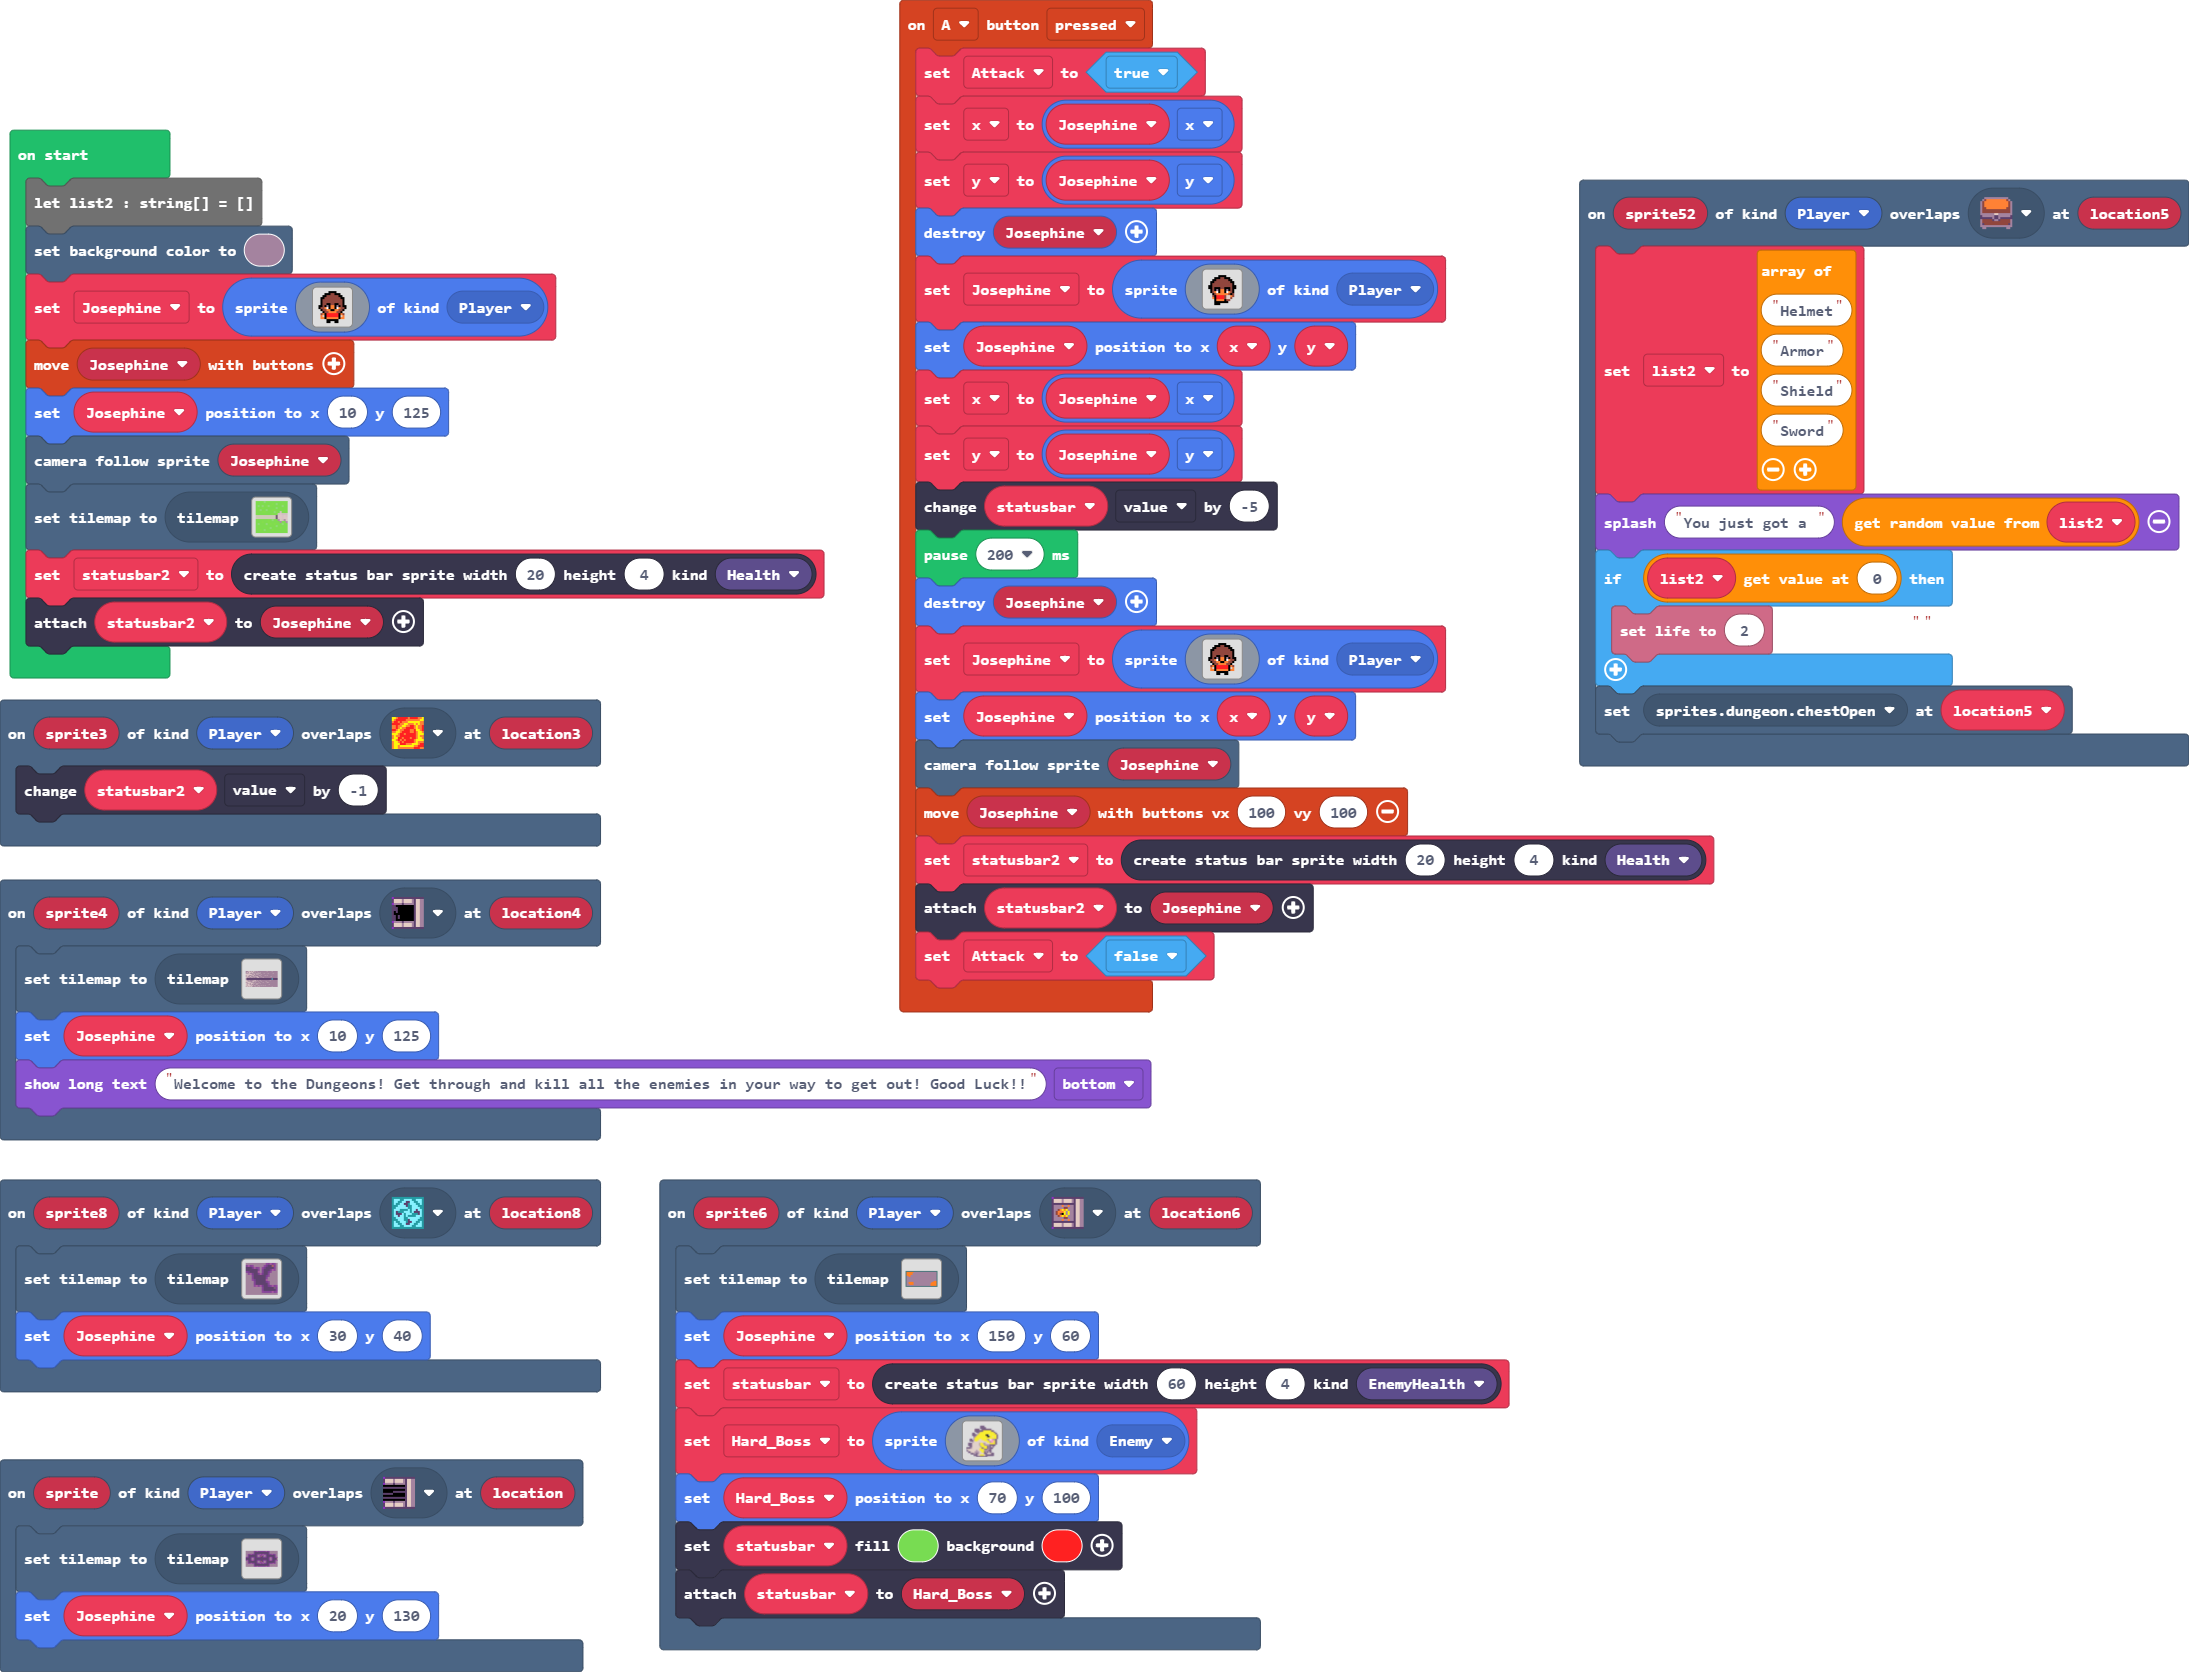
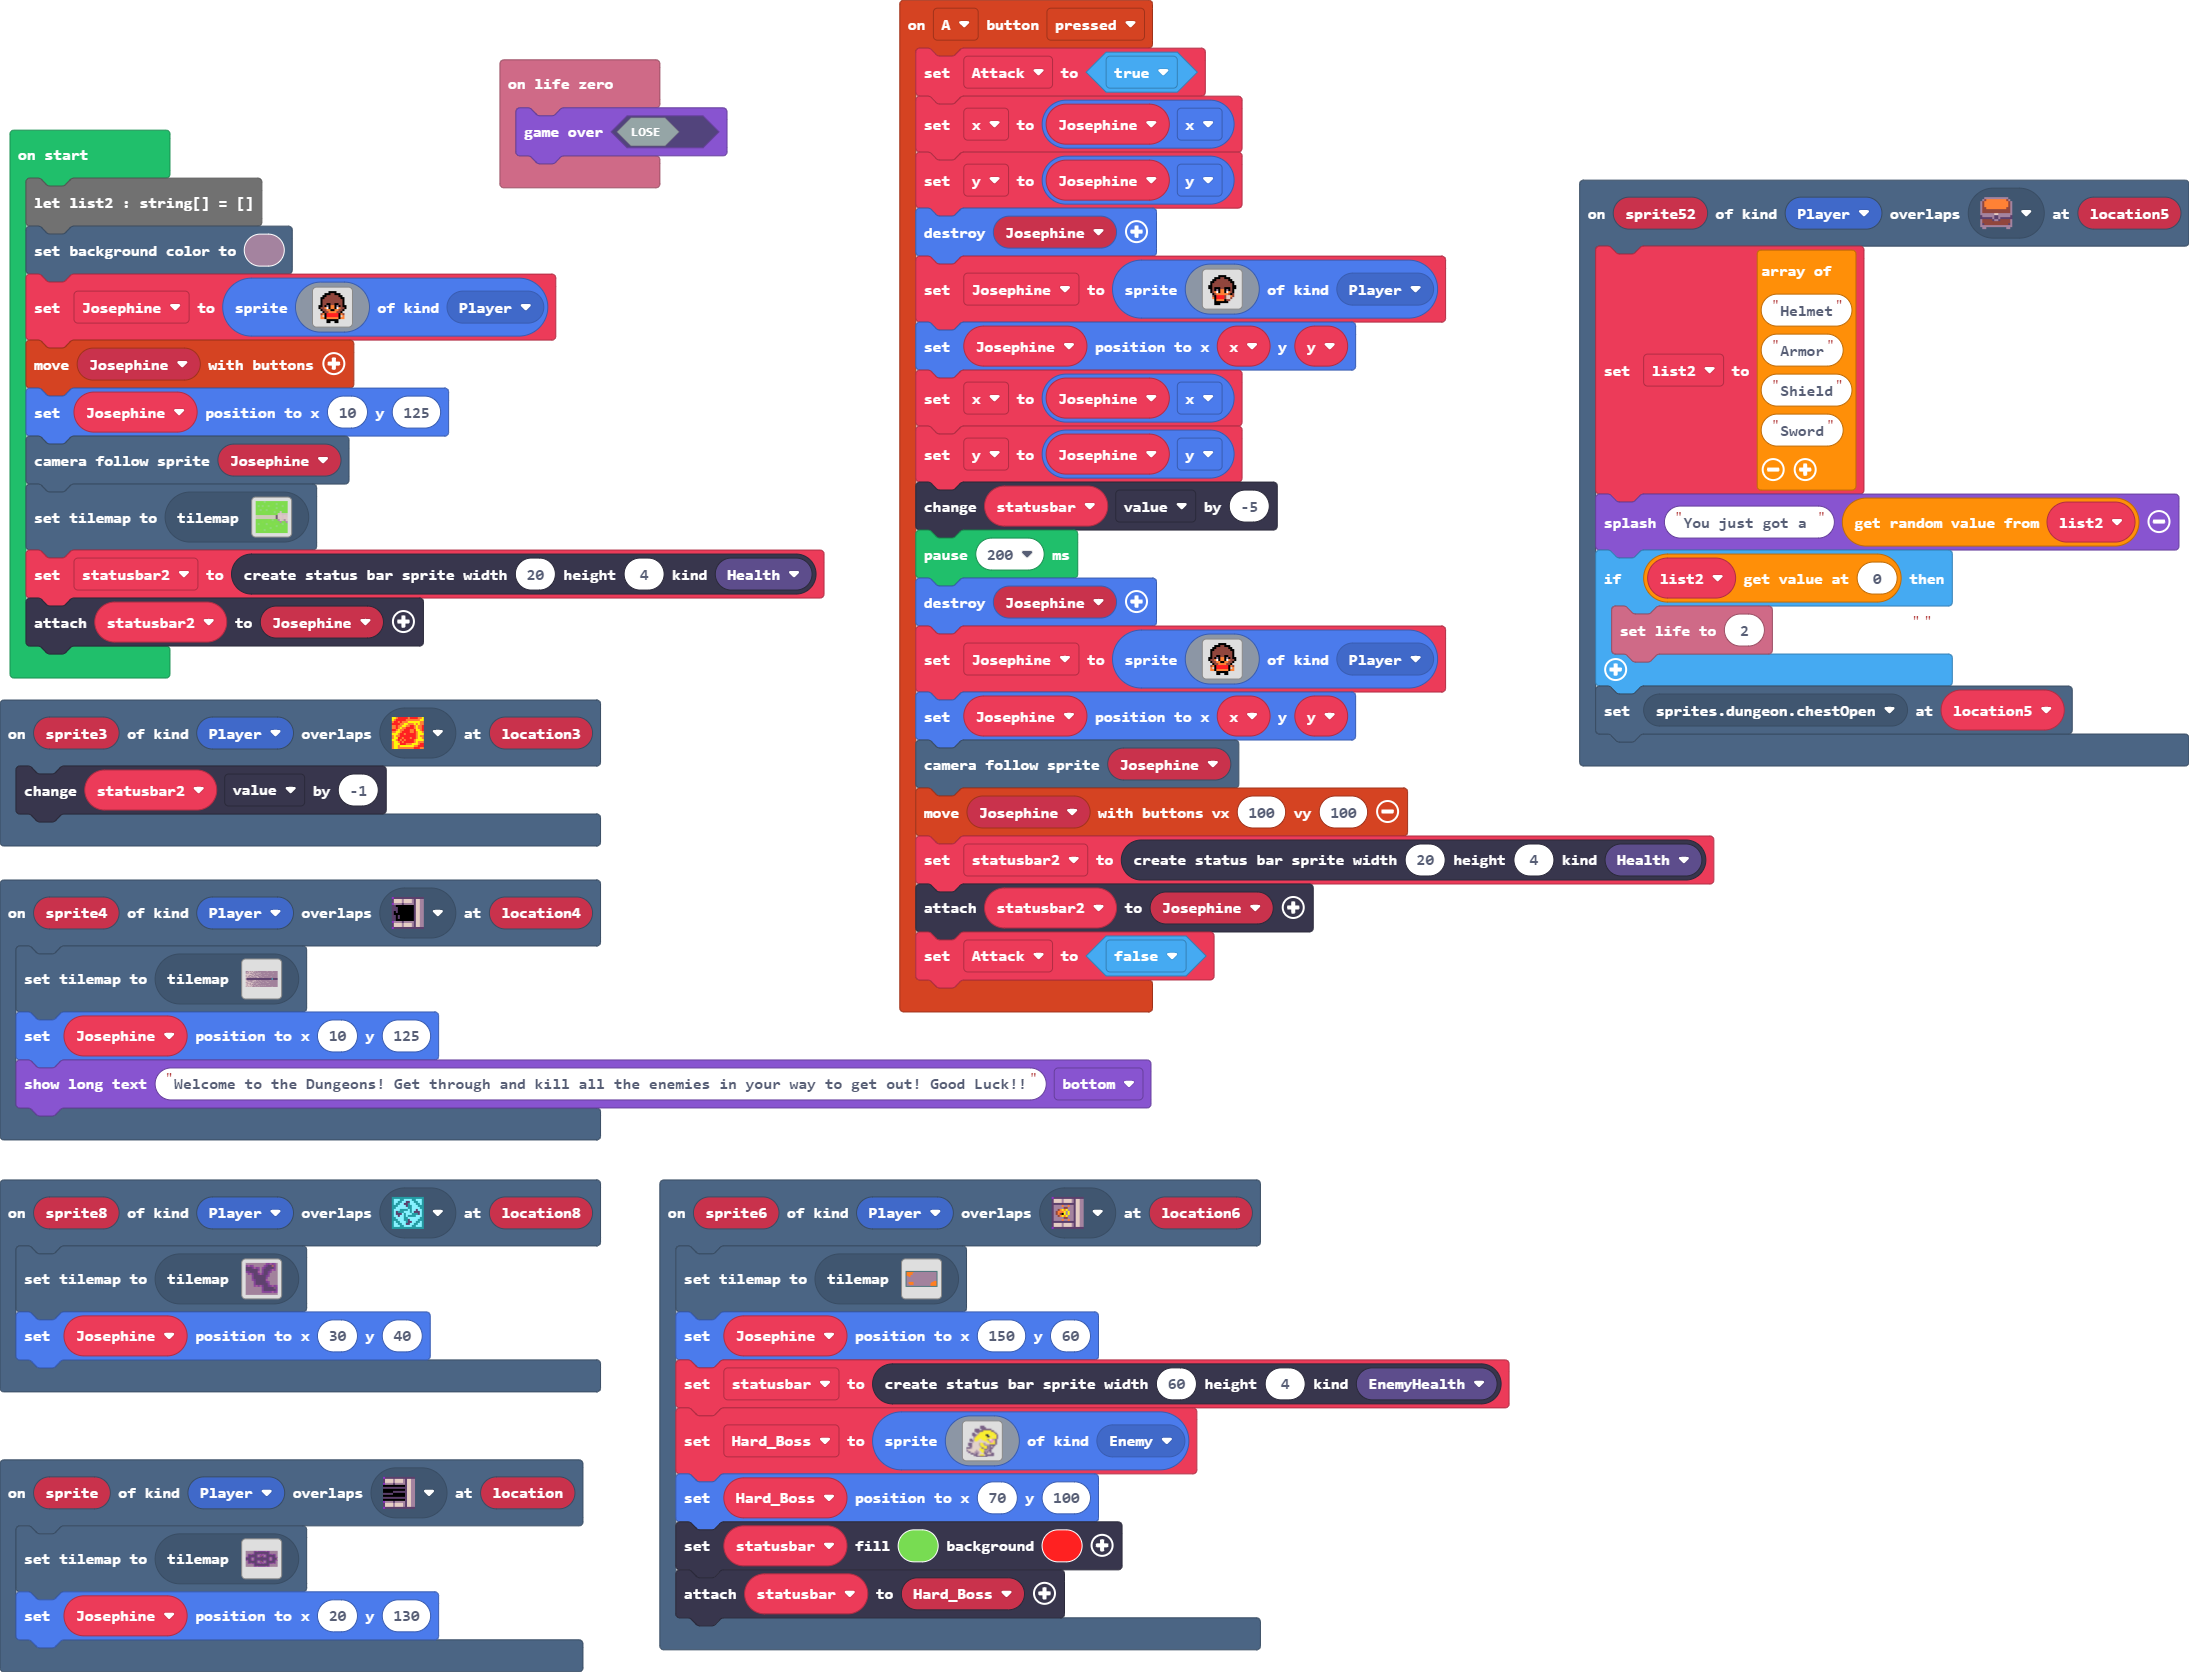
Update main.blocks, main.ts

Changed region(s): [[0.2175, 0.0311, 0.3417, 0.1244]]

diff --git a/main.ts b/main.ts
@@ -93,6 +93,9 @@ scene.onOverlapTile(SpriteKind.Player, sprites.dungeon.doorLockedEast, function 
     statusbar.setColor(7, 2)
     statusbar.attachToSprite(Hard_Boss)
 })
+info.onLifeZero(function () {
+    game.gameOver(false)
+})
 let Hard_Boss: Sprite = null
 let statusbar: StatusBarSprite = null
 let y = 0
